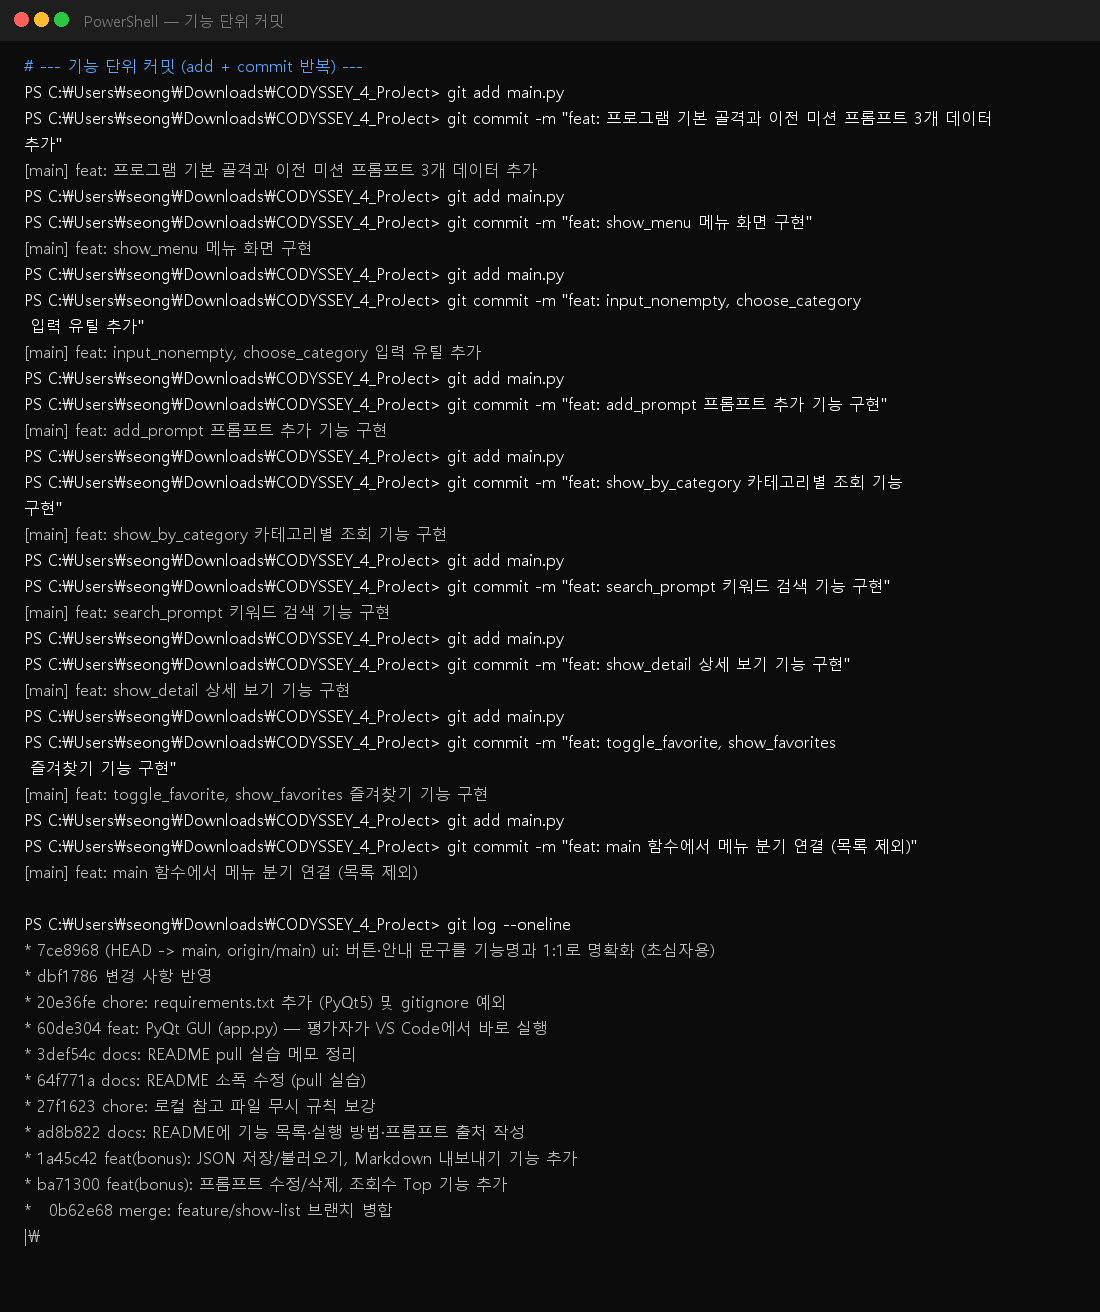
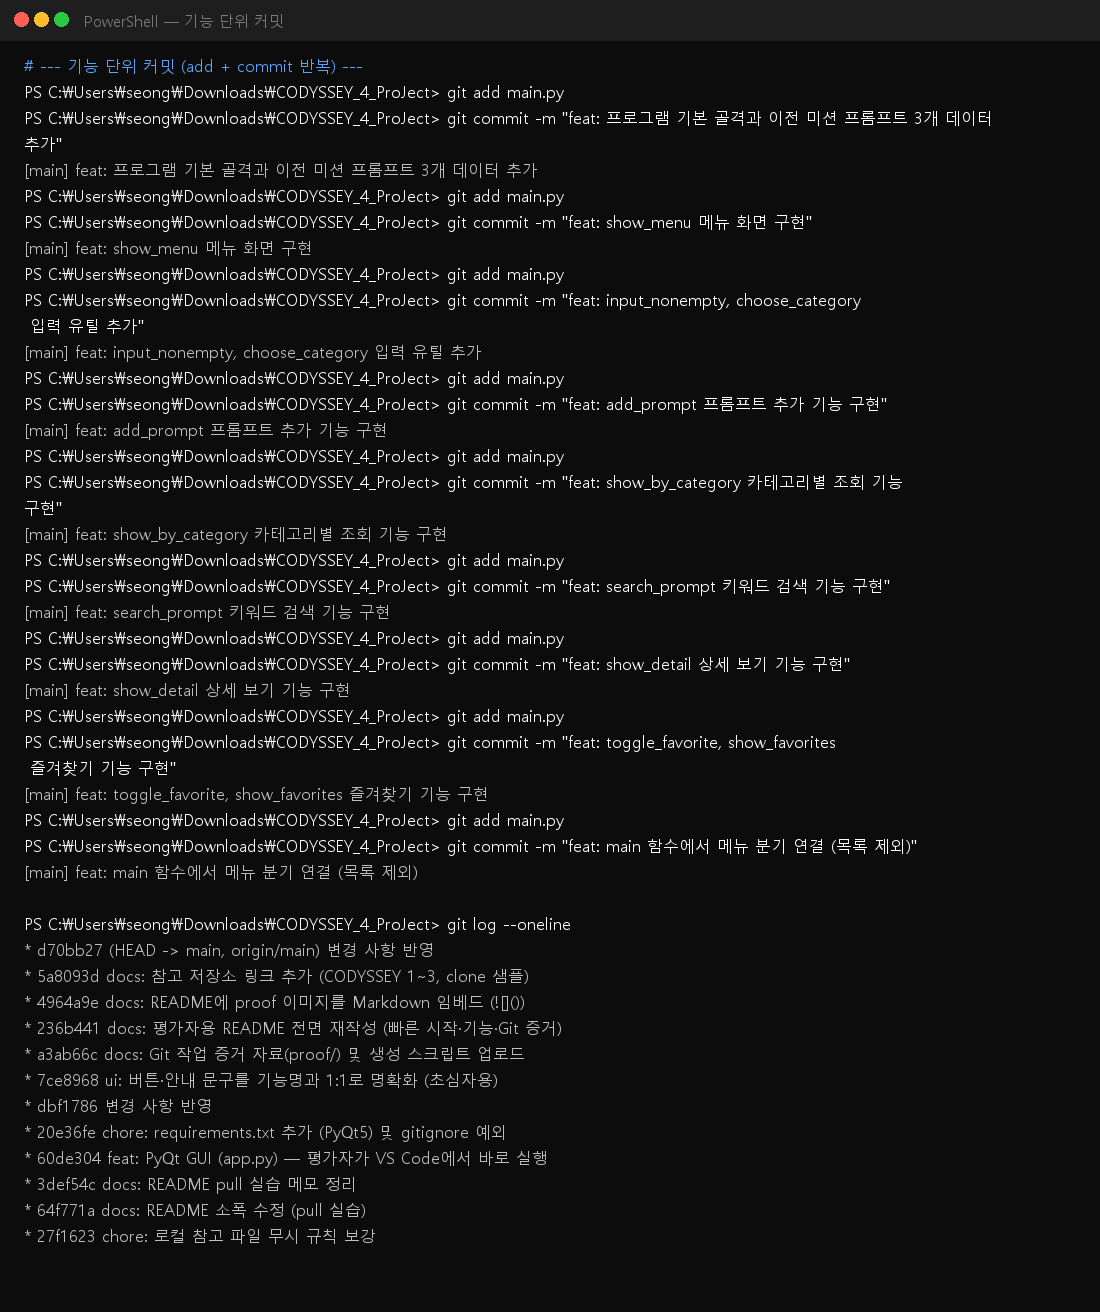
docs: 사전평가 보완 (python -V, 자료구조 이유, 동명 규칙, 설계 문서)

Changed region(s): [[0.0309, 0.7188, 0.4945, 0.9375], [0.6182, 0.7188, 0.6491, 0.75]]

diff --git a/make_git_proof.py b/make_git_proof.py
@@ -180,7 +180,10 @@ def build_sessions(d: dict) -> dict[str, list[tuple[str, tuple[int, int, int]]]]
 
     # 01 환경
     lines: list[tuple[str, tuple[int, int, int]]] = []
-    lines += section_comment("개발 환경 확인")
+    lines += section_comment("개발 환경 확인 (원문 명령)")
+    # 평가 요건: python -V 원문 명령·결과 기록
+    lines += cmd("python -V")
+    lines += out(d["python_version"] or "Python 3.10.11")
     lines += cmd("python --version")
     lines += out(d["python_version"] or "Python 3.10.11")
     lines += cmd("git --version")
@@ -200,6 +203,12 @@ def build_sessions(d: dict) -> dict[str, list[tuple[str, tuple[int, int, int]]]]
     lines += out(name)
     lines += cmd("git config user.email")
     lines += out(email)
+    lines += blank()
+    lines += section_comment("한 줄 스냅샷")
+    lines += out(
+        f"snapshot: python={d['python_version'] or 'Python 3.10.11'} | "
+        f"git={d['git_version']} | user.name={name} | user.email={email}"
+    )
     sessions["01_env_config"] = lines
 
     # 02 init add commit origin push
@@ -408,15 +417,19 @@ def write_markdown_log(d: dict, sessions: dict) -> Path:
         "",
         "## 1. 계정 / 환경",
         "```text",
-        "git --version",
-        d["git_version"],
+        "python -V",
+        d["python_version"],
         "python --version",
         d["python_version"],
+        "git --version",
+        d["git_version"],
         'git config --global user.name "seongbin45"',
         f'git config --global user.email "{email}"',
         "git config --global init.defaultBranch main",
         f"git config user.name  → {name}",
         f"git config user.email → {email}",
+        f"snapshot: python={d['python_version']} | git={d['git_version']} | "
+        f"user.name={name} | user.email={email}",
         "```",
         "",
         "## 2. init / add / commit / origin / push",

diff --git a/main.py b/main.py
@@ -58,6 +58,7 @@ def show_menu():
     print("11. JSON에서 불러오기")
     print("12. 카테고리별 Markdown 내보내기")
     print("0. 종료")
+    print("(선택 가능 번호: 0 ~ 12)")
 
 
 def input_nonempty(label):

diff --git a/README.md b/README.md
@@ -6,9 +6,12 @@
 | 항목 | 내용 |
 |---|---|
 | 저장소 | https://github.com/seongbin45/CODYSSEY_4_ProJect |
-| 언어 | Python 3.10 이상 |
+| 언어 | Python 3.10 이상 (`python -V` → Python 3.10.11) |
+| Git | 2.53.0 · `user.name=seongbin45` · `user.email=sungbin45@office365.kunsan.ac.kr` |
 | 필수 실행 | `main.py` (콘솔, 외부 라이브러리 없음) |
 | 평가자 권장 실행 | `app.py` (PyQt GUI, 클릭만으로 기능 확인) |
+| 브랜치 | `main` (목록 기능은 `feature/show-list` 에서 작업 후 merge) |
+| merge 커밋 | `0b62e68` — `merge: feature/show-list 브랜치 병합` |
 
 ---
 
@@ -174,24 +177,175 @@ CODYSSEY_4_ProJect/
 
 ---
 
-## 7. 구현 방식 (간단 설명)
+## 7. 설계 의도 · 자료구조 · 동작 규칙
 
-- **데이터**: 리스트 + 딕셔너리 (`prompts`)
-- **구조**: 기능별 함수 분리  
-  예) `show_menu`, `add_prompt`, `show_list`, `search_prompt`, `show_favorites` 등
-- **콘솔(`main.py`)**: 외부 라이브러리 없음 (`json`, `os` 만 보너스 기능에 사용)
-- **GUI(`app.py`)**: `main.py` 의 데이터·상수를 그대로 사용 (같은 기본 프롬프트)
+### 7.1 왜 리스트 + 딕셔너리인가 (선택 이유 · trade-off)
+
+| 선택 | 이유 |
+|---|---|
+| **리스트 (`prompts`)** | 등록 순서를 그대로 유지하고, 메뉴 번호(1, 2, 3…)과 1:1로 대응하기 쉽습니다. 삽입(`append`)·삭제(`pop`)가 직관적입니다. |
+| **딕셔너리 (각 항목)** | 한 프롬프트의 여러 속성(`title`, `content`, …)을 필드 이름으로 읽기 쉽습니다. |
+
+| 관점 | 장점 | 단점 (한계) |
+|---|---|---|
+| 삽입 | 맨 뒤 추가 O(1)에 가깝고 구현이 단순 | 중간 삽입은 느릴 수 있음 (이 프로그램에선 거의 없음) |
+| 검색 | 전체 순회 + 부분문자열로 충분 (데이터 수십~수백 건 가정) | 제목 인덱스가 없어 데이터가 매우 커지면 선형 탐색 비용 증가 |
+| 정렬 | `sorted(..., key=views)` 로 조회수 Top 구현 용이 | 정렬 시 새 리스트 생성 (원본 순서는 목록 번호용으로 유지) |
+| 대안 대비 | DB/클래스 없이 과제 범위(기본 문법)에 맞음 | 제목 유니크 제약·전문 검색 엔진 수준의 기능은 없음 |
+
+**정리**: 학습·제출용 규모에서는 리스트+딕셔너리가 **구현 비용 대비 가독성·메뉴 번호 매핑**에 가장 유리합니다.
+
+### 7.2 한 항목(필드) 사양
+
+| 필드 | 타입 | 설명 | 기본값 |
+|---|---|---|---|
+| `title` | `str` | 제목 (비어 있으면 등록 불가) | — |
+| `content` | `str` | 본문 (비어 있으면 등록 불가) | — |
+| `category` | `str` | 카테고리 이름 | 잘못된 선택 시 `"기타"` |
+| `favorite` | `bool` | 즐겨찾기 여부 | `False` |
+| `views` | `int` | 상세 보기 횟수 | `0` |
+
+### 7.3 동명(같은 제목) · 카테고리 충돌 규칙
+
+| 상황 | 정책 |
+|---|---|
+| **같은 제목 중복 등록** | **허용**. 제목을 고유키로 쓰지 않습니다. 구분 기준은 **목록 번호(리스트 인덱스 + 1)** 입니다. |
+| **같은 제목 + 다른 내용** | 둘 다 유지. 수정·삭제·즐겨찾기는 **번호로 지정한 항목**에만 적용됩니다. |
+| **카테고리 직접 입력** | 앞뒤 공백은 `strip()` 으로 제거. 비어 있으면 `input_nonempty` 가 다시 받습니다. |
+| **카테고리 목록 밖 값** | 직접 입력 문자열을 그대로 저장. 미리 정의된 6개와 **병합·자동 정규화하지 않음**. |
+| **잘못된 카테고리 번호** | 안내 후 카테고리를 `"기타"` 로 등록. |
+| **JSON 불러오기 시 충돌** | 파일 내용으로 **메모리 목록 전체를 교체** (`clear` 후 `extend`). 기존 항목과 제목 기준 병합은 하지 않습니다. |
+
+### 7.4 입력 검증 규칙
+
+| 입력 | 검증 |
+|---|---|
+| 제목 · 내용 | `input_nonempty`: 공백만 있으면 거부하고 재입력 |
+| 카테고리 (번호) | 1~6 → 고정 목록, 7 → 직접 입력, 그 외 → `"기타"` |
+| 카테고리 (직접 입력) | 비어 있으면 재입력 |
+| 메뉴 번호 | `0`~`12` 만 처리, 그 외 `"잘못된 번호입니다"` 후 메뉴 재표시 |
+| 목록 번호 (상세/즐겨찾기/수정삭제) | 숫자이며 1 ~ `len(prompts)` 범위인지 검사 |
+
+### 7.5 검색 방식
+
+- **부분 일치**: 키워드가 제목 **또는** 내용 문자열에 포함되면 매칭 (`in`).
+- **대소문자**: `.lower()` 로 비교해 영문 대/소문자를 구분하지 않습니다.
+- **공백·특수문자**: 별도 정규화(연속 공백 제거, 특수문자 무시)는 **하지 않습니다**. 입력한 그대로 부분 문자열 검색합니다.
+- **한계**: 완전 일치 옵션·정규식·형태소 분석은 없습니다.
+
+### 7.6 즐겨찾기 피드백 예시 (콘솔)
+
+```text
+'확인봇 - ...' 프롬프트를 즐겨찾기에서 추가했습니다!
+'확인봇 - ...' 프롬프트를 즐겨찾기에서 해제했습니다!
+```
+
+(`favorite` 를 `not` 으로 토글한 뒤, True → 「추가」, False → 「해제」 문구)
+
+### 7.7 프로그램 루프
+
+`main()` 은 `while True` 로 메뉴를 반복 출력합니다.  
+메뉴 **0** 을 고르면 종료 메시지를 출력하고 `break` 로 루프를 빠져나갑니다.  
+(한 번 실행 후 끝나지 않고, 여러 기능을 이어서 쓰기 위한 구조입니다.)
+
+### 7.8 주요 함수 책임 (한 줄)
+
+| 함수 | 책임 (입력 → 동작 / 부수효과) |
+|---|---|
+| `show_menu` | 메뉴 0~12 출력 (선택 범위 안내 포함) |
+| `input_nonempty` | 라벨 출력 → 비어 있지 않은 문자열 반환 |
+| `choose_category` | 번호/직접입력 → 카테고리 문자열 반환 |
+| `add_prompt` | 제목·내용·카테고리 입력 → `prompts` 에 append |
+| `show_list` | 전체 목록 출력 (★/☆) |
+| `show_by_category` | 카테고리 선택 → 해당 항목만 출력 |
+| `search_prompt` | 키워드 → 제목·내용 부분일치 결과 출력 |
+| `show_detail` | 번호 → 본문 출력, `views` +1 |
+| `toggle_favorite` | 번호 → `favorite` 토글 + 안내 문구 |
+| `show_favorites` | `favorite==True` 만 출력 |
+| `edit_or_delete_prompt` | 번호 → 수정 또는 삭제 |
+| `show_top_viewed` | `views` 내림차순 출력 |
+| `save_to_json` / `load_from_json` | 파일 저장 / 메모리 교체 복원 |
+| `export_to_markdown` | 카테고리별 `.md` 생성 |
+| `main` | 메뉴 루프와 분기 |
+
+### 7.9 JSON 스키마 · 영속화 방침
+
+`prompts.json` 은 **객체 배열** 입니다.
+
+```json
+[
+  {
+    "title": "문자열",
+    "content": "문자열",
+    "category": "문자열",
+    "favorite": true,
+    "views": 0
+  }
+]
+```
+
+| 정책 | 내용 |
+|---|---|
+| 스키마 버전 필드 | 별도 `version` 키 없음 (학습용 단순 형식) |
+| 불러오기 | 파일이 없거나 리스트가 아니면 오류 안내. 정상이면 **전체 교체** |
+| 필드 누락 | 코드는 키 접근 시 기본값을 쓰는 GUI 경로가 있고, 콘솔은 정상 저장본을 전제 |
+| 마이그레이션 | 구버전 변환 로직 없음. 수동으로 필드를 맞춘 뒤 불러오면 됨 |
+| Git 추적 | `prompts.json` 은 `.gitignore` — 실행 결과물이며 제출 코드에 포함하지 않음 |
+
+### 7.10 기술 스택 요약
+
+- **콘솔(`main.py`)**: 외부 라이브러리 없음 (`json`, `os` 는 보너스 영속화·내보내기)
+- **GUI(`app.py`)**: PyQt5, `main.py` 의 `prompts` 를 공유
+- **추가 시 유효성**: 제목/내용 필수 → 실패 시 재입력(콘솔) 또는 경고 후 다이얼로그 유지(GUI)
 
 ---
 
 ## 8. Git 작업 기록 (평가 포인트)
 
+### 환경 스냅샷 (실측)
+
+```text
+python -V
+Python 3.10.11
+
+git --version
+git version 2.53.0.windows.2
+
+git config user.name
+seongbin45
+
+git config user.email
+sungbin45@office365.kunsan.ac.kr
+```
+
+한 줄 요약: `python=Python 3.10.11 | git=2.53.0.windows.2 | user.name=seongbin45 | user.email=sungbin45@office365.kunsan.ac.kr`
+
 ### 확인 방법
 
 ```bash
+python -V
 git log --oneline --graph --decorate
 git rev-list --count HEAD          # 커밋 수 (10개 이상)
 git rev-list --count --merges HEAD # merge 커밋 존재 여부
+```
+
+### 브랜치 · merge 요약
+
+| 항목 | 값 |
+|---|---|
+| 기본 브랜치 | `main` |
+| 기능 브랜치 | `feature/show-list` (프롬프트 목록 기능 전용) |
+| merge 커밋 | **`0b62e68`** `merge: feature/show-list 브랜치 병합` |
+| 브랜치 기준 | **기능 단위**로 브랜치를 만들고, 동작 확인 후 `main` 에 `--no-ff` merge. 단순 문서/설정 수정은 `main` 에서 직접 커밋 |
+
+### 커밋 메시지 규칙 (예시)
+
+```text
+feat: 기능 추가          예) feat: show_list 프롬프트 목록 기능 구현
+feat(bonus): 보너스      예) feat(bonus): JSON 저장/불러오기
+fix: 문서               예) docs: README 평가자 안내
+chore: 설정·잡무         예) chore: 프로젝트 초기 설정
+merge: 브랜치 병합       예) merge: feature/show-list 브랜치 병합
 ```
 
 ### 사용한 Git 명령
@@ -206,8 +360,9 @@ git rev-list --count --merges HEAD # merge 커밋 존재 여부
 | `git pull` | 원격 변경 반영 |
 
 - **clone 실습 대상**: [Command-to-commit-changes-from-Git](https://github.com/seongbin45/Command-to-commit-changes-from-Git)  
+  (기록: `proof/05_clone.png`, `proof/git_command_log.md`)  
 - **프롬프트 목록(`show_list`)** 기능은 `feature/show-list` 브랜치에서 작업 후 **main에 merge** 했습니다.  
-- 커밋은 기능 단위로 나뉘어 있으며, 그래프에 merge 분기가 보입니다.
+- 커밋은 기능 단위로 나뉘어 있으며, 그래프에 merge 분기가 보입니다.  
 
 ### 증거 자료 (`proof/` — README에 바로 표시)
 
@@ -272,13 +427,23 @@ python make_git_proof.py
 | 콘솔 버전 | 추가 패키지 **없음** |
 | GUI 버전 | `PyQt5` (`requirements.txt`) |
 
-사용자 정보 확인 예:
+사용자 정보 확인 예 (원문 명령):
 
 ```bash
+python -V
 python --version
 git --version
 git config user.name
 git config user.email
+```
+
+실측 결과 예:
+
+```text
+python -V          → Python 3.10.11
+git --version      → git version 2.53.0.windows.2
+git config user.name  → seongbin45
+git config user.email → sungbin45@office365.kunsan.ac.kr
 ```
 
 ---

diff --git a/proof/git_command_log.md b/proof/git_command_log.md
@@ -1,24 +1,27 @@
 # Git 명령 사용 기록 (제출 증명용)
 
-- 생성 시각: 2026-08-12 18:25:35
+- 생성 시각: 2026-08-13 14:59:36
 - 프로젝트: `C:\Users\seong\Downloads\CODYSSEY_4_ProJect`
 - GitHub: https://github.com/seongbin45/CODYSSEY_4_ProJect.git
 - user.name: `seongbin45`
 - user.email: `sungbin45@office365.kunsan.ac.kr`
-- 커밋 수: **22**
+- 커밋 수: **27**
 - merge 커밋 수: **1**
 
 ## 1. 계정 / 환경
 ```text
-git --version
-git version 2.53.0.windows.2
+python -V
+Python 3.10.11
 python --version
 Python 3.10.11
+git --version
+git version 2.53.0.windows.2
 git config --global user.name "seongbin45"
 git config --global user.email "sungbin45@office365.kunsan.ac.kr"
 git config --global init.defaultBranch main
 git config user.name  → seongbin45
 git config user.email → sungbin45@office365.kunsan.ac.kr
+snapshot: python=Python 3.10.11 | git=git version 2.53.0.windows.2 | user.name=seongbin45 | user.email=sungbin45@office365.kunsan.ac.kr
 ```
 
 ## 2. init / add / commit / origin / push
@@ -35,7 +38,12 @@ git push -u origin main
 
 ## 3. 기능 단위 커밋 (10개+)
 ```text
-* 7ce8968 (HEAD -> main, origin/main) ui: 버튼·안내 문구를 기능명과 1:1로 명확화 (초심자용)
+* d70bb27 (HEAD -> main, origin/main) 변경 사항 반영
+* 5a8093d docs: 참고 저장소 링크 추가 (CODYSSEY 1~3, clone 샘플)
+* 4964a9e docs: README에 proof 이미지를 Markdown 임베드 (![]())
+* 236b441 docs: 평가자용 README 전면 재작성 (빠른 시작·기능·Git 증거)
+* a3ab66c docs: Git 작업 증거 자료(proof/) 및 생성 스크립트 업로드
+* 7ce8968 ui: 버튼·안내 문구를 기능명과 1:1로 명확화 (초심자용)
 * dbf1786 변경 사항 반영
 * 20e36fe chore: requirements.txt 추가 (PyQt5) 및 gitignore 예외
 * 60de304 feat: PyQt GUI (app.py) — 평가자가 VS Code에서 바로 실행
@@ -90,19 +98,21 @@ Your branch is up to date with 'origin/main'.
 Changes not staged for commit:
   (use "git add <file>..." to update what will be committed)
   (use "git restore <file>..." to discard changes in working directory)
-	modified:   .gitignore
-
-Untracked files:
-  (use "git add <file>..." to include in what will be committed)
-	make_git_proof.py
-	proof/
+	modified:   README.md
+	modified:   main.py
+	modified:   make_git_proof.py
 
 no changes added to commit (use "git add" and/or "git commit -a")
 
-* main 7ce8968 [origin/main] ui: 버튼·안내 문구를 기능명과 1:1로 명확화 (초심자용)
+* main d70bb27 [origin/main] 변경 사항 반영
 
 git log --oneline --graph --decorate -20
-* 7ce8968 (HEAD -> main, origin/main) ui: 버튼·안내 문구를 기능명과 1:1로 명확화 (초심자용)
+* d70bb27 (HEAD -> main, origin/main) 변경 사항 반영
+* 5a8093d docs: 참고 저장소 링크 추가 (CODYSSEY 1~3, clone 샘플)
+* 4964a9e docs: README에 proof 이미지를 Markdown 임베드 (![]())
+* 236b441 docs: 평가자용 README 전면 재작성 (빠른 시작·기능·Git 증거)
+* a3ab66c docs: Git 작업 증거 자료(proof/) 및 생성 스크립트 업로드
+* 7ce8968 ui: 버튼·안내 문구를 기능명과 1:1로 명확화 (초심자용)
 * dbf1786 변경 사항 반영
 * 20e36fe chore: requirements.txt 추가 (PyQt5) 및 gitignore 예외
 * 60de304 feat: PyQt GUI (app.py) — 평가자가 VS Code에서 바로 실행
@@ -119,11 +129,6 @@ git log --oneline --graph --decorate -20
 * db764ac feat: main 함수에서 메뉴 분기 연결 (목록 제외)
 * c1166a3 feat: toggle_favorite, show_favorites 즐겨찾기 기능 구현
 * 0df0d7c feat: show_detail 상세 보기 기능 구현
-* 235bc33 feat: search_prompt 키워드 검색 기능 구현
-* effc516 feat: show_by_category 카테고리별 조회 기능 구현
-* 897c343 feat: add_prompt 프롬프트 추가 기능 구현
-* 196781e feat: input_nonempty, choose_category 입력 유틸 추가
-* b7a0ed2 feat: show_menu 메뉴 화면 구현
 ```
 
 ## 생성된 터미널 이미지
